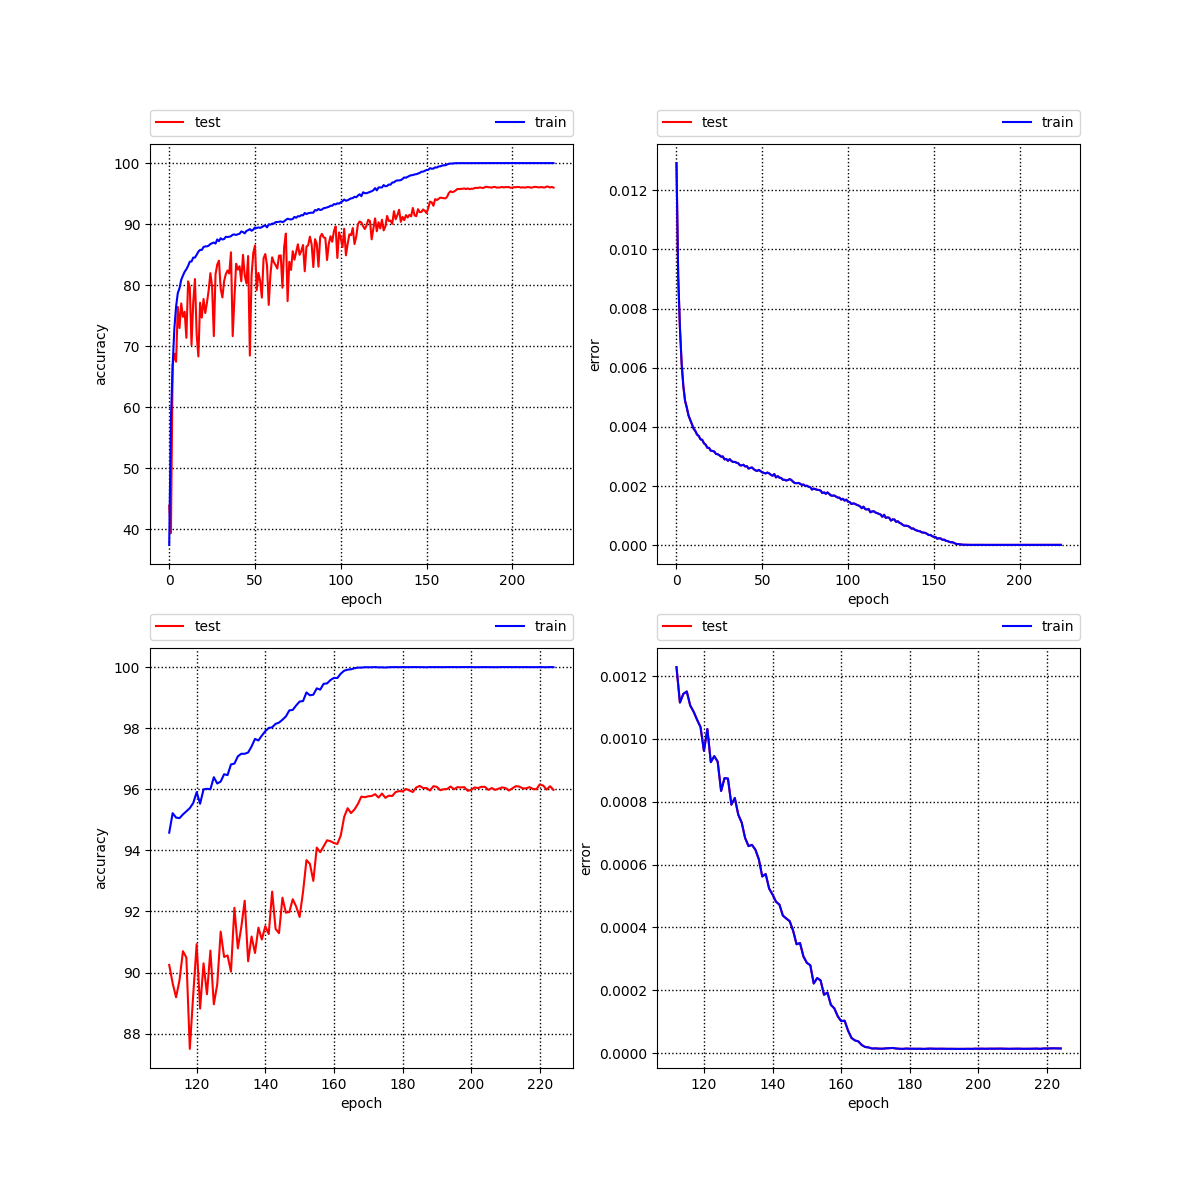
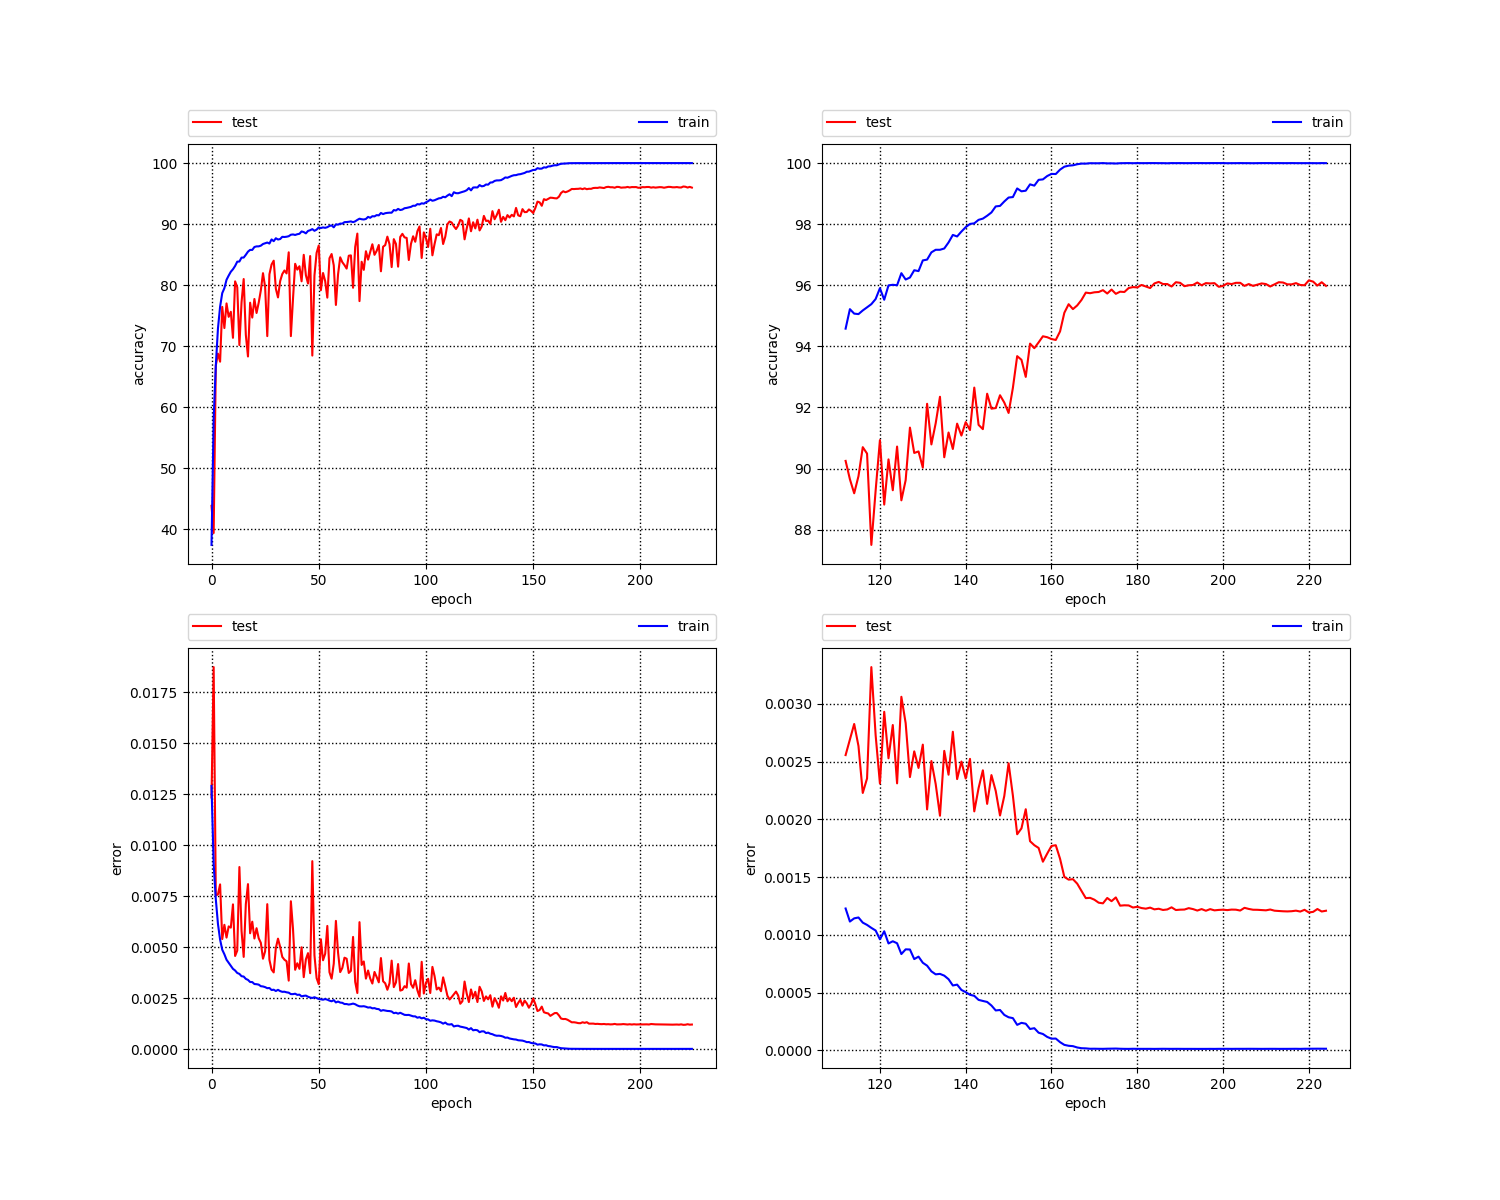
fixing bug

diff --git a/disp_results.py b/disp_results.py
@@ -10,18 +10,17 @@ def addsubgraph(which, t, q1, q2, lab):
 	plt.xlabel('epoch')
 	plt.ylabel(lab)
 	plt.grid(color='k', linestyle=':', linewidth=1)
-	plt.legend(bbox_to_anchor=(0., 1.02, 1., .102), loc='lower left',
-		   ncol=2, mode="expand", borderaxespad=0.)
+	plt.legend(bbox_to_anchor=(0., 1.02, 1., .102), loc='lower left', ncol=2, mode="expand", borderaxespad=0.)
 		   
 def display_results(a1, a2, e1, e2, waitForGraph=False, tr_H = None, tr_Y = None, te_H = None, te_Y = None, epoch = 0):
-    plt.figure(num='Progress of training', figsize=(25,12))
+    plt.figure(num='Progress of training', figsize = ((15,12) if tr_H==None else (25,12)))
     plt.clf()
 
     t = range(len(a1))
-    addsubgraph(241,t,a1,a2,'accuracy')
-    addsubgraph(245,t,e1,e2,'error')
-    addsubgraph(242,t[len(t)//2:],a1[len(t)//2:],a2[len(t)//2:],'accuracy')
-    addsubgraph(246,t[len(t)//2:],e1[len(t)//2:],e2[len(t)//2:],'error')
+    addsubgraph((221 if tr_H==None else 241),t,a1,a2,'accuracy')
+    addsubgraph((223 if tr_H==None else 245),t,e1,e2,'error')
+    addsubgraph((222 if tr_H==None else 242),t[len(t)//2:],a1[len(t)//2:],a2[len(t)//2:],'accuracy')
+    addsubgraph((224 if tr_H==None else 246),t[len(t)//2:],e1[len(t)//2:],e2[len(t)//2:],'error')
     
     if tr_H is not None:
         display_clusters(tr_H, tr_Y, te_H, te_Y)
@@ -119,4 +118,4 @@ if __name__ == "__main__":
     print('Min train J:', min(e1))
     print('Min test J:', min(e2))
 
-    display_results(a1,a2,e1,e1, True)
+    display_results(a1,a2,e1,e2, True)
